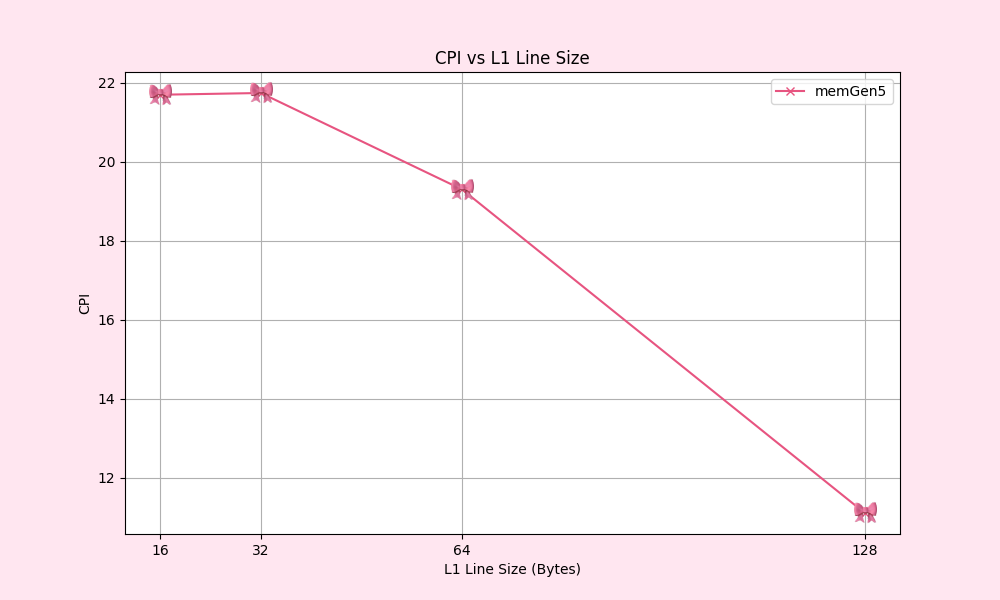
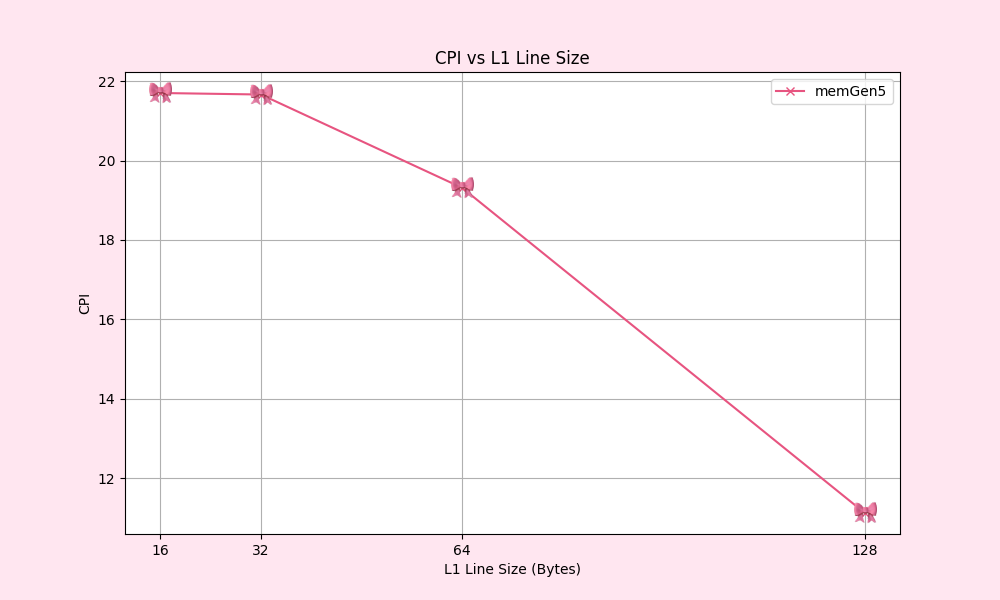
regenerated after name change and prepared graphs for report

diff --git a/grapher.py b/grapher.py
@@ -10,21 +10,21 @@ def cpi_vs_line_size(results, output_folder, filename="default"):
     # plots graphs of cpi against line size for the different generators
     generators = results['Memory_Generator'].unique()
     line_sizes = sorted(results['Line_Size'].unique())
-    icon = mpimg.imread("graphs/bow.png")
+    # icon = mpimg.imread("graphs/bow.png")
 
     os.makedirs(output_folder, exist_ok=True)
 
     for generator in generators:
-        plt.figure(figsize= (10, 6), facecolor='#ffe6f0')
+        # plt.figure(figsize= (10, 6), facecolor='#ffe6f0')
         set = results[results['Memory_Generator'] == generator]
-        plt.plot(set['Line_Size'], set['CPI'], marker = 'x', label = generator, color = '#E75480')
-
-        for x, y in zip(set['Line_Size'], set['CPI']):
-            im = OffsetImage(icon, zoom=0.5)
-            ab = AnnotationBbox(im, (x, y), frameon=False, box_alignment=(0.5, 0.5))
-            plt.gca().add_artist(ab)
+        # plt.plot(set['Line_Size'], set['CPI'], marker = 'x', label = generator, color = '#E75480')
+        plt.plot(set['Line_Size'], set['CPI'], marker = 'x', label = generator)
 
 
+        # for x, y in zip(set['Line_Size'], set['CPI']):
+        #     im = OffsetImage(icon, zoom=0.5)
+        #     ab = AnnotationBbox(im, (x, y), frameon=False, box_alignment=(0.5, 0.5))
+        #     plt.gca().add_artist(ab)
 
         plt.title('CPI vs L1 Line Size')
         plt.xlabel('L1 Line Size (Bytes)')
@@ -39,7 +39,7 @@ def cpi_vs_line_size(results, output_folder, filename="default"):
         if filename == "default":
             path = os.path.join(output_folder, f"cpi_linesize_{generator}.png")
         else:
-            path = os.path.join(output_folder, f"averages/{filename}_{generator}.png")
+            path = os.path.join(output_folder, f"{filename}_{generator}.png")
 
         plt.savefig(path) 
         plt.close()
@@ -68,7 +68,7 @@ def main():
 
         # folder = "results"
         # averaged = average_cpi_vs_line_size(folder)
-        # cpi_vs_line_size(averaged, "graphs", "average")
+        # cpi_vs_line_size(averaged, "graphs/report_graphs", "average")
 
     except Exception as e:
         print(f"Error: {e}")

diff --git a/Main.cpp b/Main.cpp
@@ -407,7 +407,7 @@ public:
 
 void outputCSVResults(SimResult results[][4], string genNames[], int lineSizes[]) {
     // Output CSV file for Python graphing
-    ofstream csvFile("results/simulation_results5.csv");
+    ofstream csvFile("results/simulation_results1.csv");
     csvFile << "Memory_Generator,Line_Size,CPI,L1_Hit_Rate,L2_Hit_Rate,Avg_Memory_Access_Time\n";
 
     for (int genIdx = 0; genIdx < 5; genIdx++) {
@@ -421,7 +421,7 @@ void outputCSVResults(SimResult results[][4], string genNames[], int lineSizes[]
         }
     }
     csvFile.close();
-    cout << "\n✓ Results exported to simulation_results.csv\n";
+    cout << "\nResults exported to simulation_results1.csv\n";
 }
 
 void generateASCIIGraph(SimResult results[][4], string genNames[], int lineSizes[]) {
@@ -534,7 +534,7 @@ int main() {
 
     // Array of memory generators
     unsigned int (*memGens[5])() = {sequential_addresses, random_address_0_and_24KB, random_general_access, sequential_addresses_until_4KB, sequential_addresses_of_32B_until_1MB};
-    string genNames[5] = {"memGen1", "memGen2", "memGen3", "memGen4", "memGen5"};
+    string genNames[5] = {"Sequential", "Random till 24KB", "Random", "Sequential to 4KB", "Sequential 32B to 1MB"};
 
     // L1 line sizes to test
     int lineSizes[4] = {16, 32, 64, 128};
